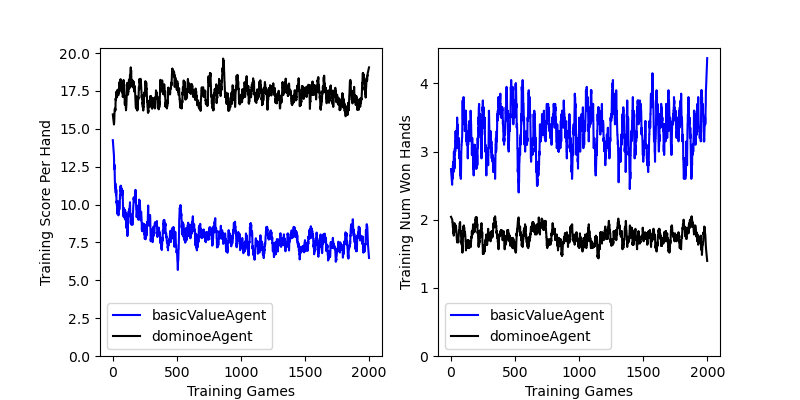
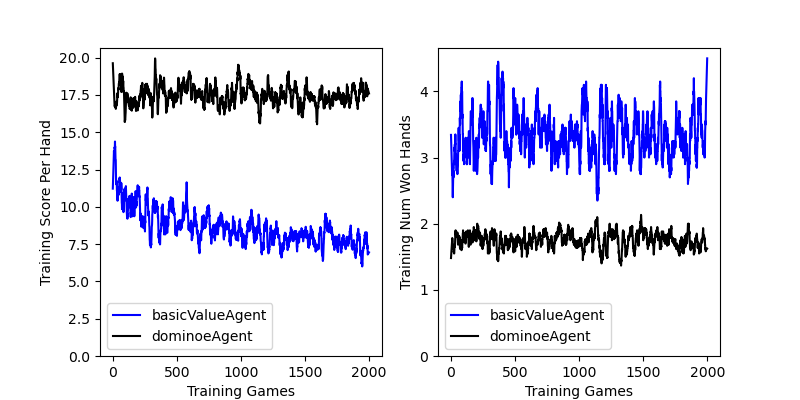
increased standard learning rate for tdAgents

diff --git a/dominoes/agents/tdAgents.py b/dominoes/agents/tdAgents.py
@@ -21,7 +21,7 @@ class valueAgent(dominoeAgent):
         self.highestDominoeRange = [self.highestDominoe]
         self.learning = True
         self.lam = 0.5
-        self.alpha = 1e-5
+        self.alpha = 3e-5
         self.trackFinalScoreError = []
         self.finalScoreOutputDimension = 1
         
